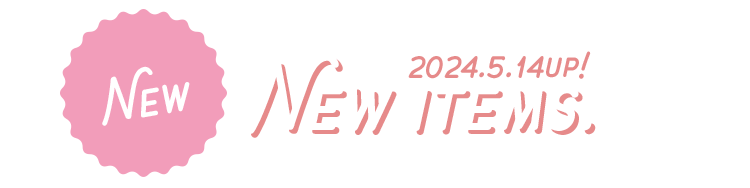
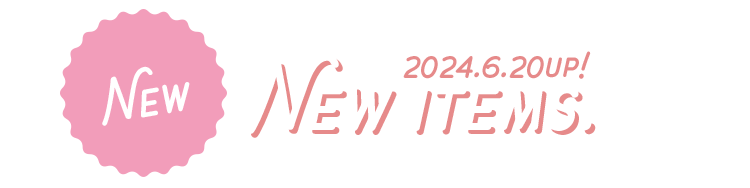
0620
kj bd up

Changed region(s): [[0.5213, 0.2926, 0.736, 0.4255]]

diff --git a/archives/index.html b/archives/index.html
@@ -36,7 +36,8 @@
       <form>
         <select name="menu">
           <option>こちらから選択してください</option>
-          <option value="#iw2024bd">岩本照誕生祭2024 [New]</option>
+          <option value="#kj2024bd">向井康二誕生祭2024 [New]</option>
+          <option value="#iw2024bd">岩本照誕生祭2024</option>
           <option value="#fk2024bd">深澤辰哉誕生祭2024</option>
           <option value="#dt2024bd">宮舘涼太誕生祭2024</option>
           <option value="#mg2024bd">目黒蓮誕生祭2024</option>
@@ -62,10 +63,20 @@
     <div class="sub-page_ttl archives"><img src="/i_and_h_mkn/img/ttl_archives.png" alt="各記念日で作成した画像のログ"></div>
     <p>過去に配布した誕生日や記念日等の素材です。<br>必ず<a href="../index.html#rules">利用規約</a>をお読みになったうえで、以下より保存してお使いください。<br>※タップすると画像だけを表示できます</p>
 
+    <div class="area_item">
+      <a id="kj2024bd" class="anchor"></a>
+      <p class="new">向井康二誕生祭2024<img src="/i_and_h_mkn/img/new_title.png" alt="new"></p>
+      <div class="area_archives">
+        <a href="#" class="link_hidden"><img src="#" class="img_hidden"></a>
+        <a href="/i_and_h_mkn/img/archives/20240621_ic.png" onclick="ga('send','event','sozai','click','image', 1);"><img src="/i_and_h_mkn/img/archives/20240621_ic.png" alt="向井康二誕生祭2024 アイコン"></a>
+        <a href="/i_and_h_mkn/img/archives/20240621_hd.png" onclick="ga('send','event','sozai','click','image', 1);"><img src="/i_and_h_mkn/img/archives/20240621_hd.png" alt="向井康二誕生祭2024 ヘッダー"></a>
+      </div>
+    </div>
+
     <div class="section">
       <div class="area_item">
         <a id="iw2024bd" class="anchor"></a>
-        <p class="new">岩本照誕生祭2024<img src="/i_and_h_mkn/img/new_title.png" alt="new"></p>
+        <p>岩本照誕生祭2024</p>
         <div class="area_archives">
           <a href="#" class="link_hidden"><img src="#" class="img_hidden"></a>
           <a href="/i_and_h_mkn/img/archives/20240517_ic.png" onclick="ga('send','event','sozai','click','image', 1);"><img src="/i_and_h_mkn/img/archives/20240517_ic.png" alt="岩本照誕生祭2024 アイコン"></a>

diff --git a/new/index.html b/new/index.html
@@ -37,12 +37,12 @@
     <div class="section">
       
       <div class="area_item">
-        <a id="dt2024bd" class="anchor"></a>
-        <p class="new">岩本照誕生祭2024<img src="/i_and_h_mkn/img/new_title.png" alt="new"></p>
+        <a id="kj2024bd" class="anchor"></a>
+        <p class="new">向井康二誕生祭2024<img src="/i_and_h_mkn/img/new_title.png" alt="new"></p>
         <div class="area_archives">
           <a href="#" class="link_hidden"><img src="#" class="img_hidden"></a>
-          <a href="/i_and_h_mkn/img/archives/20240517_ic.png" onclick="ga('send','event','sozai','click','image', 1);"><img src="/i_and_h_mkn/img/archives/20240517_ic.png" alt="岩本照誕生祭2024 アイコン"></a>
-          <a href="/i_and_h_mkn/img/archives/20240517_hd.png" onclick="ga('send','event','sozai','click','image', 1);"><img src="/i_and_h_mkn/img/archives/20240517_hd.png" alt="岩本照誕生祭2024 ヘッダー"></a>
+          <a href="/i_and_h_mkn/img/archives/20240621_ic.png" onclick="ga('send','event','sozai','click','image', 1);"><img src="/i_and_h_mkn/img/archives/20240621_ic.png" alt="向井康二誕生祭2024 アイコン"></a>
+          <a href="/i_and_h_mkn/img/archives/20240621_hd.png" onclick="ga('send','event','sozai','click','image', 1);"><img src="/i_and_h_mkn/img/archives/20240621_hd.png" alt="向井康二誕生祭2024 ヘッダー"></a>
         </div>
       </div>
 

diff --git a/index.html b/index.html
@@ -237,7 +237,7 @@
       </ul>
     </div>
     <div class="share">
-      <p>このサイトをツイートする<i class="fas fa-long-arrow-alt-right"></i></p>
+      <p>このサイトをシェアする<i class="fas fa-long-arrow-alt-right"></i></p>
       <div class="twitter_btn">
         <a href="//twitter.com/share?ref_src=twsrc%5Etfw" class="twitter-share-button" data-size="large" data-text="【すの担のためのフリー素材サイト】Free Icon &amp; Header(made by mikan)
 " data-url="https://7nsto-mkn.github.io/i_and_h_mkn/
